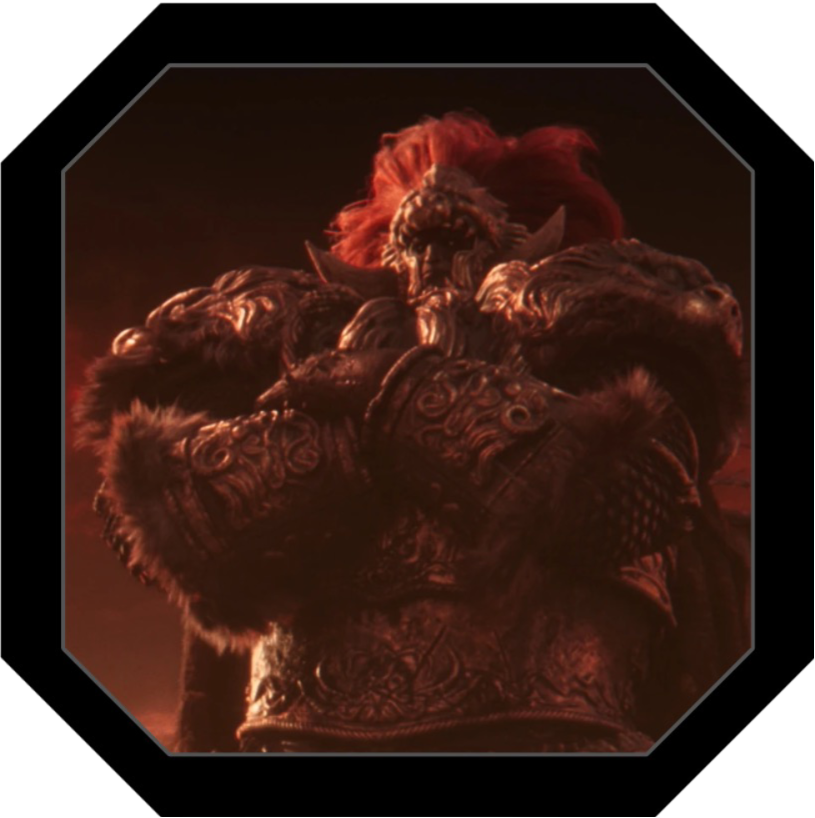
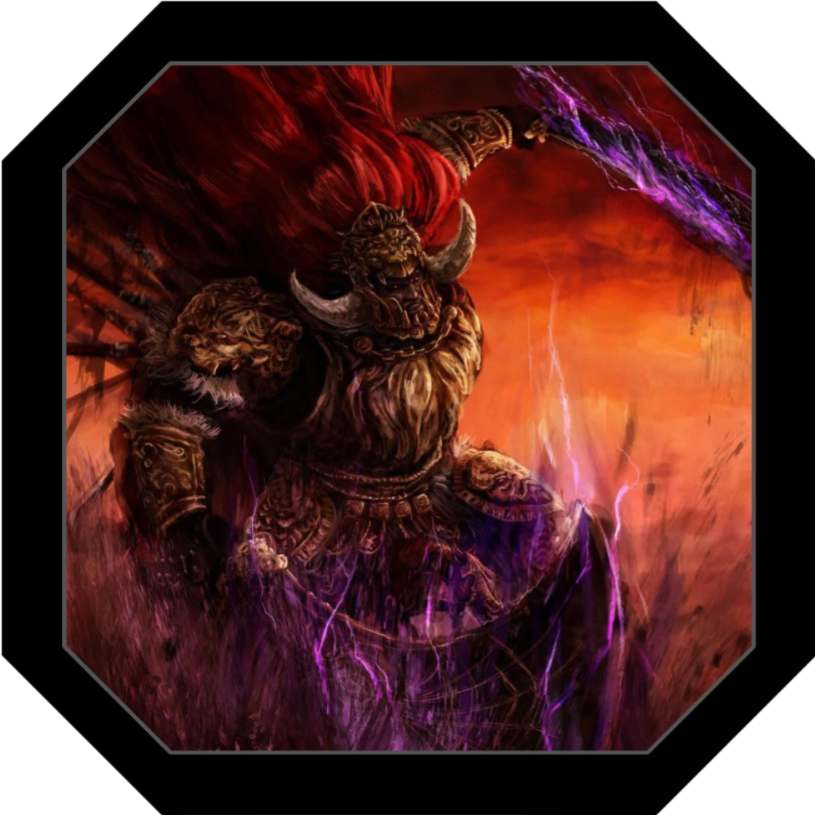
ECHOE-85 | Assets Bosses | Batch 1
[ADD] New assets for Radahn fight.

diff --git a/MonoZenith/Support/Managers/LevelManager/LevelManager.cs b/MonoZenith/Support/Managers/LevelManager/LevelManager.cs
@@ -71,7 +71,7 @@ public class LevelManager
         ConfigureDecks();
         ConfigureLevels();
         
-        CurrentLevel = GetLevelFromEnemy("Radagon of the Golden Order");
+        CurrentLevel = GetLevelFromEnemy("Starscourge Radahn");
     }
     
     private Level GetLevelFromEnemy(string enemyName)
@@ -747,14 +747,14 @@ public class LevelManager
             new Level
             {
                 Enemy = _enemies["Starscourge Radahn"],
-                Backdrop = DataManager.GetInstance().CaelidBackdrop,
+                Backdrop = DataManager.GetInstance().RadahnBattlefieldBackdrop,
                 Reward = _rewards["Starscourge Radahn"],
                 SoundTrack = DataManager.GetInstance().StarscourgeRadahnP1Soundtrack.CreateInstance(),      
                 EnemyDeck = GenerateDeck(Game.GetGameState(), _enemies["Starscourge Radahn"], _decks["Starscourge Radahn"]),
                 SecondPhase = new Level
                 {
                     Enemy = _enemies["Starscourge Radahn "],
-                    Backdrop = DataManager.GetInstance().CaelidBackdrop,
+                    Backdrop = DataManager.GetInstance().RadahnBattlefieldPhase2Backdrop,
                     Reward = _rewards["Starscourge Radahn (2nd phase)"],
                     SoundTrack = DataManager.GetInstance().StarscourgeRadahnP2Soundtrack.CreateInstance(),      
                     EnemyDeck = GenerateDeck(Game.GetGameState(), _enemies["Starscourge Radahn "], _decks["Starscourge Radahn (2nd phase)"])

diff --git a/MonoZenith/Engine/Support/DataManager.cs b/MonoZenith/Engine/Support/DataManager.cs
@@ -49,6 +49,8 @@ namespace MonoZenith.Engine.Support
         public Texture2D StormveilBackdrop;
         public Texture2D AltusPlateauBackdrop;
         public Texture2D FarumAzulaBackdrop;
+        public Texture2D RadahnBattlefieldBackdrop;
+        public Texture2D RadahnBattlefieldPhase2Backdrop;
         
         // Remembrances
         public Texture2D RemembranceOfTheStarscourge;
@@ -222,6 +224,8 @@ namespace MonoZenith.Engine.Support
             StormveilBackdrop = LoadImage("Images/Backdrops/stormveil-backdrop.png");
             AltusPlateauBackdrop = LoadImage("Images/Backdrops/altus-plateau-backdrop.png");
             FarumAzulaBackdrop = LoadImage("Images/Backdrops/farum-azula-backdrop.png");
+            RadahnBattlefieldBackdrop = LoadImage("Images/Backdrops/radahn-battlefield-backdrop.png");
+            RadahnBattlefieldPhase2Backdrop = LoadImage("Images/Backdrops/radahn-battlefield-phase2-backdrop.png");
             
             // Remembrances
             RemembranceOfTheStarscourge = LoadImage("Images/Remembrances/remembrance-of-starscourge.png");
